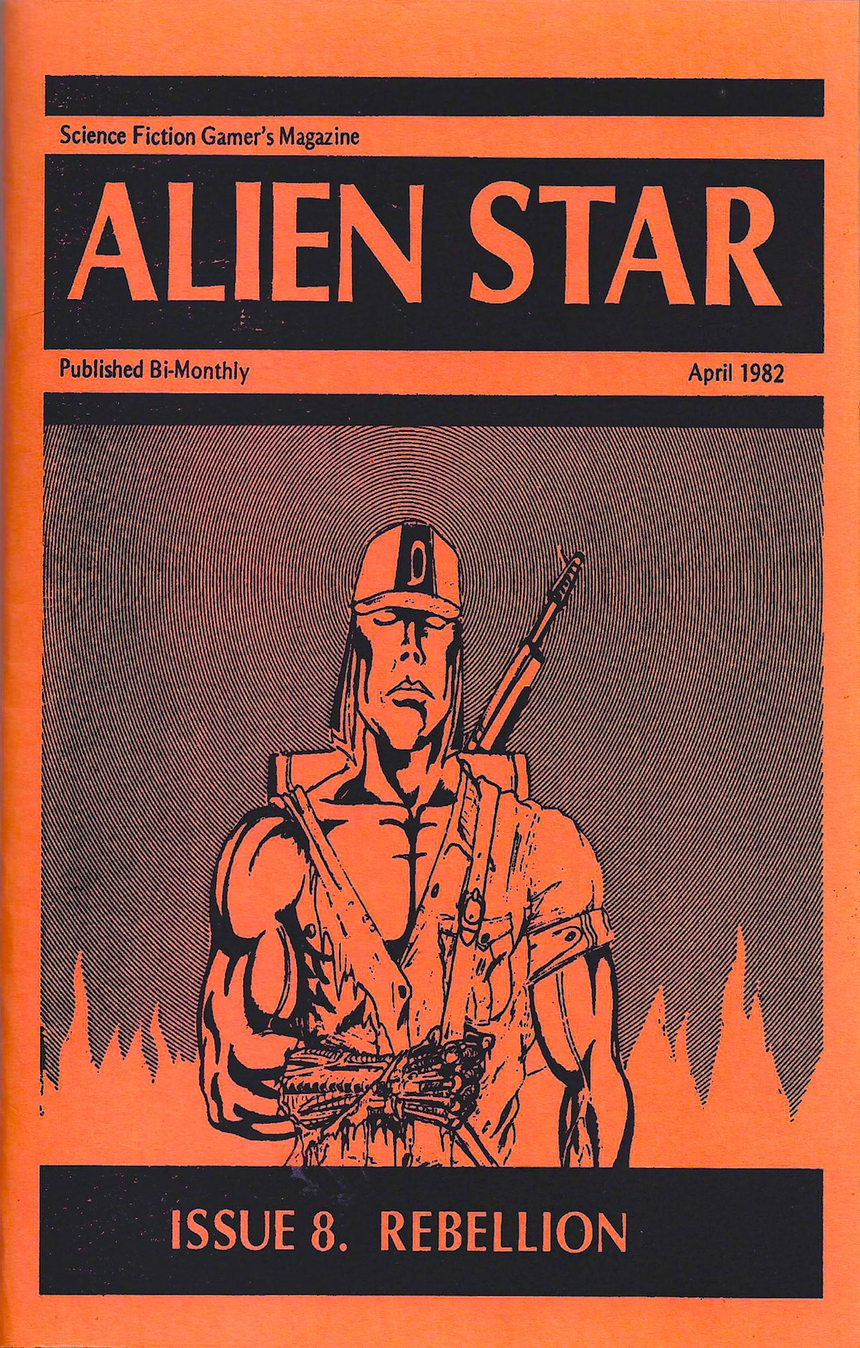
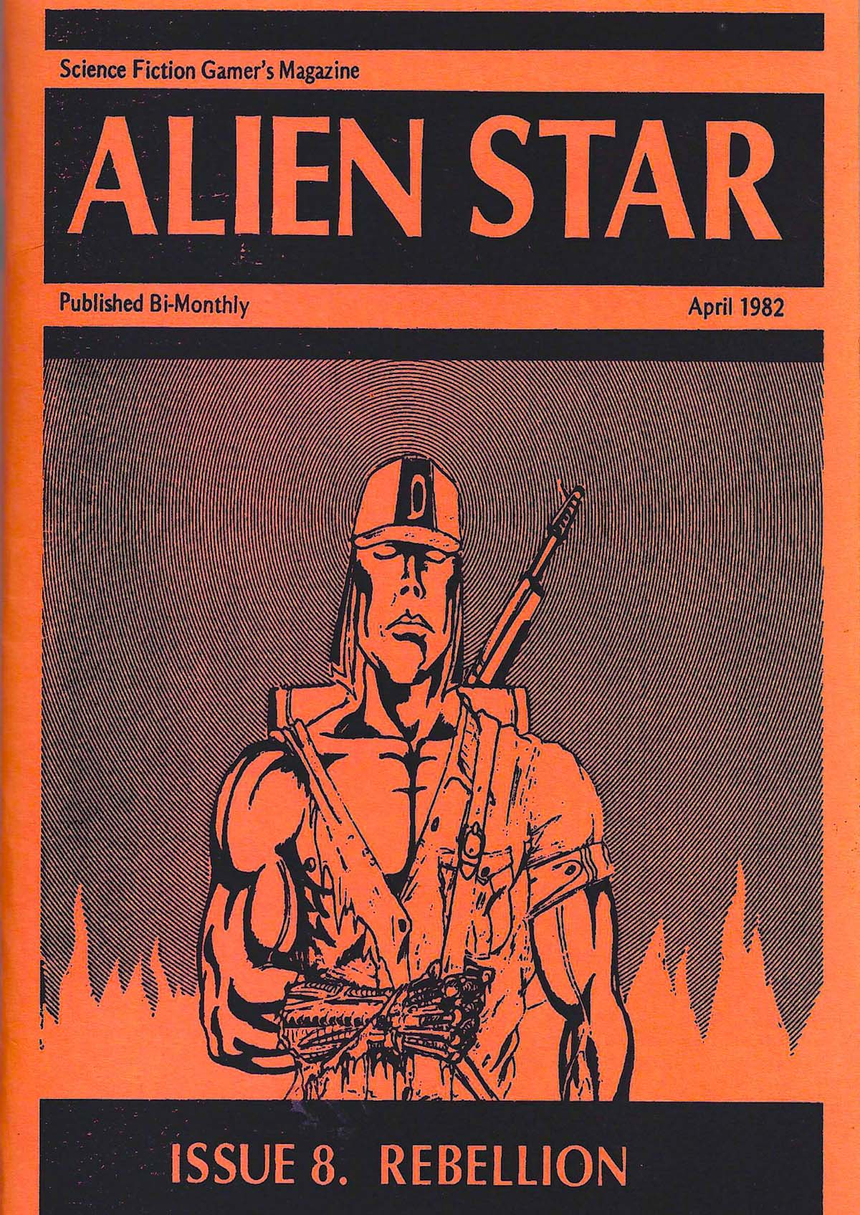
updated Alien Star covers

diff --git a/traveller/alienstar.html b/traveller/alienstar.html
@@ -31,7 +31,7 @@
   <h1>Alien Star Index</h1>
 
 <h3><a href="UMP.html">UMP: 123E1B-X</a></h3>
-<h2 class="nounderline">Version 1.13: Issues 1-8</h2>
+<h2 class="nounderline">Version 1.14: Issues 1-8</h2>
 <h3>by <a href="mailto:shannon.appelcline@gmail.com">Shannon Appelcline</a></h3>
 </center>
 <h1>Overview</h1>
@@ -134,10 +134,10 @@ they're probably counterfeits.
 consider this index a historic reference of what the
 first <i>Traveller</i> fanzine looked like.
 
-<p><i>This index is &copy; Copyright 2022 by Shannon Appelcline. It is
+<p><i>This index is &copy; Copyright 2022-2026 by Shannon Appelcline. It is
 released under
 a <a href="https://creativecommons.org/licenses/by/4.0/"><font color="white">cc-by-4.0</font></a>
-license, allowing reuse with attribution.</i>
+license, allowing reuse with attribution. Thanks to Robert McMahon for new scans of issue #1-5 covers.</i>
 
 <h2>🎞  Adventures: Misc</h2>
 <table class="index" width="100%">
@@ -1874,7 +1874,7 @@ license, allowing reuse with attribution.</i>
   </div>
 </div>
 
-<i>Cover scans were made from counterfeits, so colors and relative
+<p><i>Cover scans for #6-8 were made from counterfeits, so colors and relative
 sizing may vary slightly. The scanning process didn't help
 with color accuracy either.</i>
 

diff --git a/index.html b/index.html
@@ -21,6 +21,7 @@
 <div class="threecol">
 
   <div style="clear: right"><a href="traveller/alienstar.html">Alien Star</a> #1-8.
+    <font color="#0033FF"><b>UPDATED!</b></font>
     <span style="float: right">
       🚀      
     </span>    
